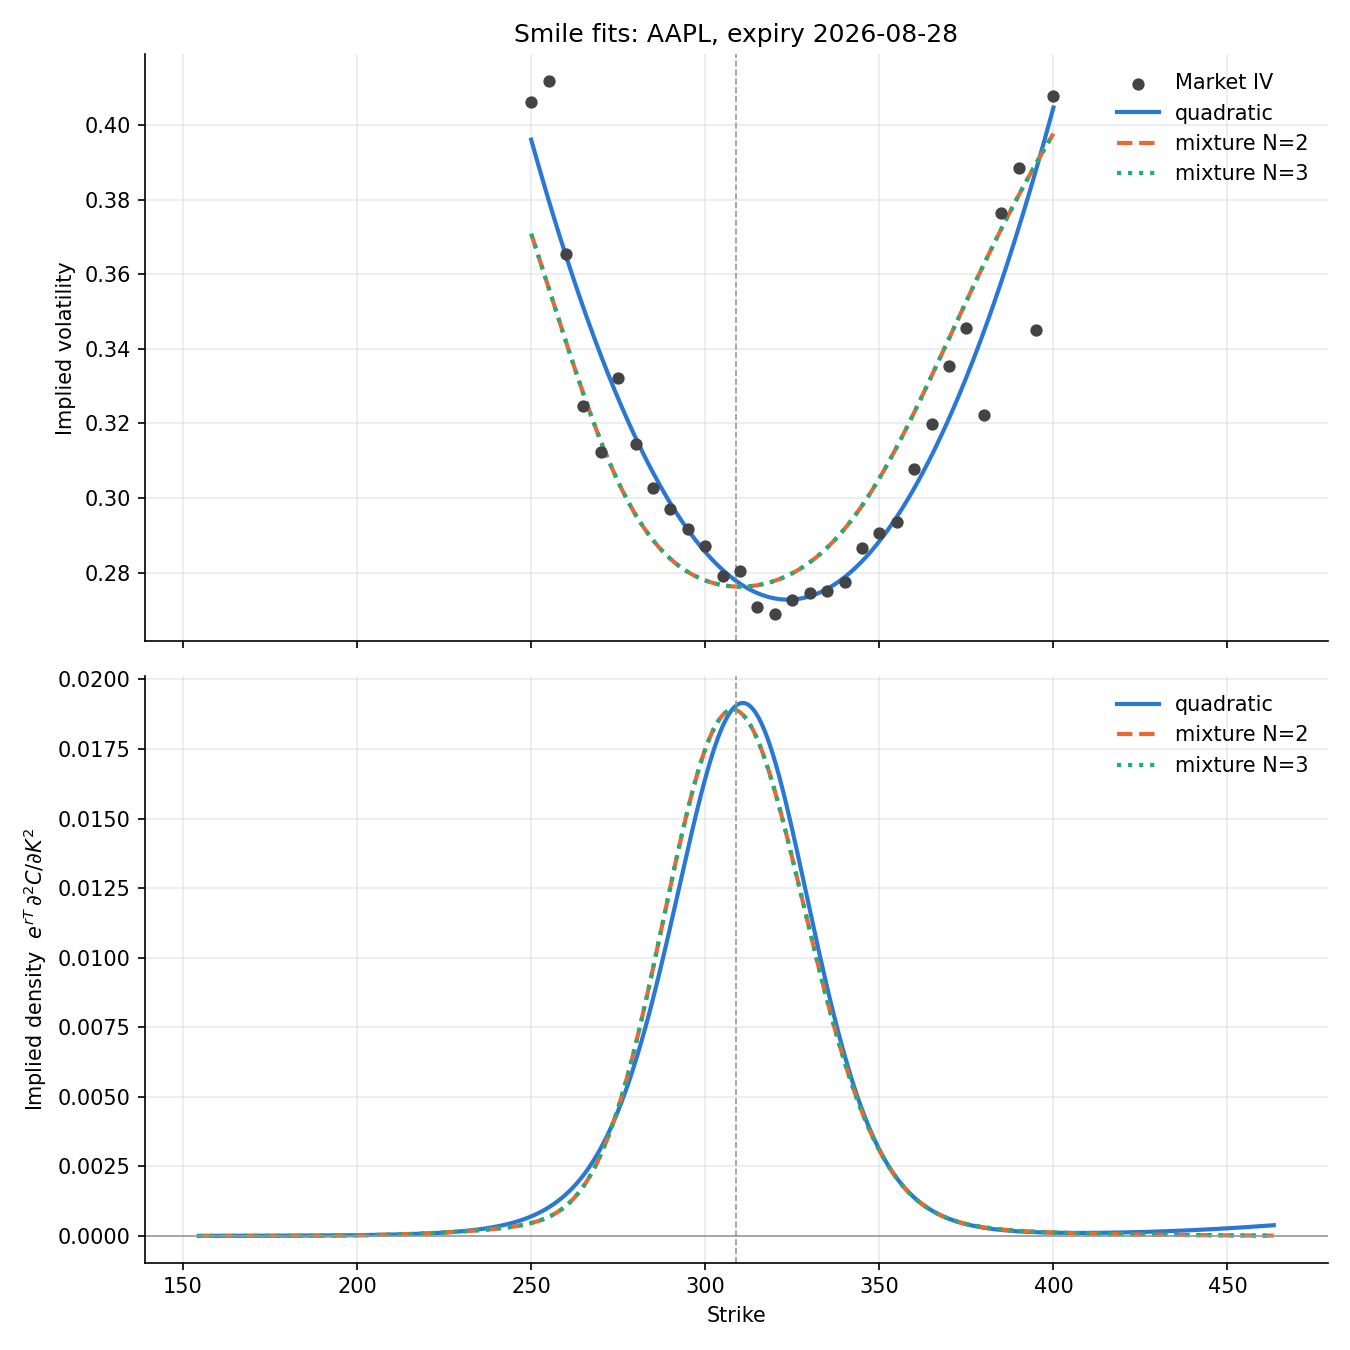
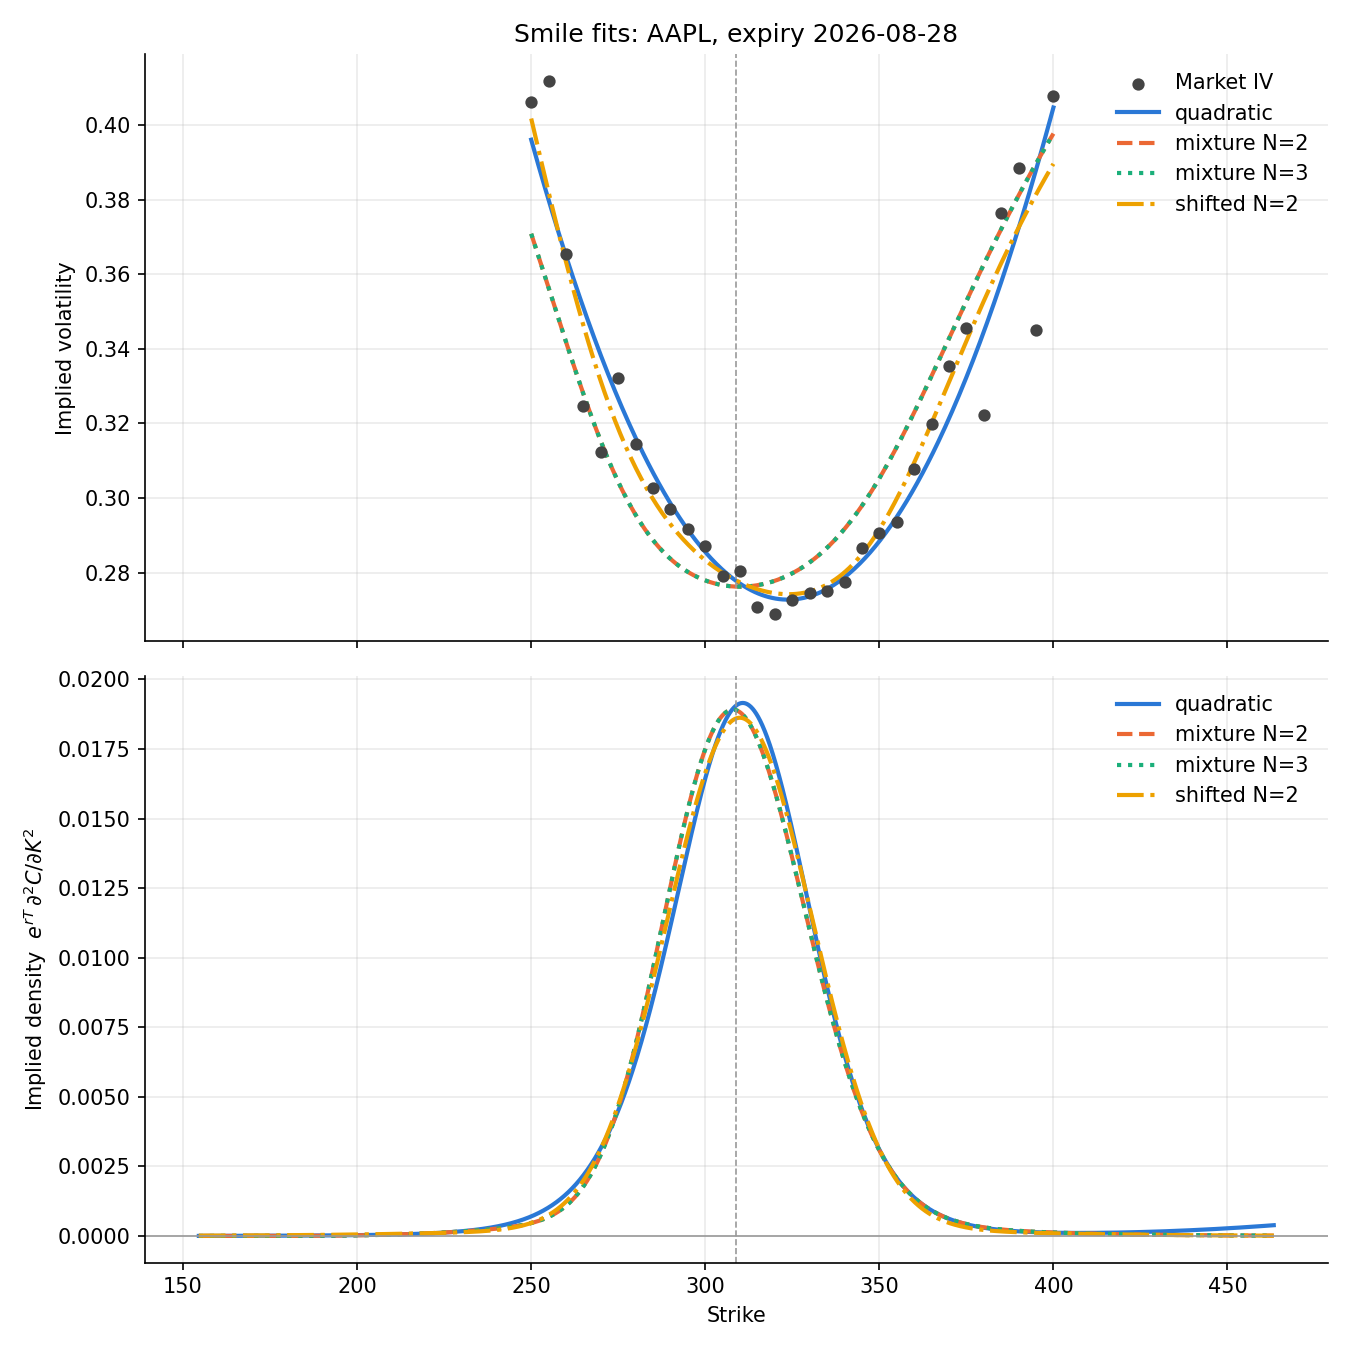
Add shifted lognormal mixture (Brigo-Mercurio) and fit shifted N=2
Fitted alpha is unbounded below on this data: RMSE keeps improving as
alpha -> -inf (normal-mixture limit), so the reported alpha is where the
optimiser stopped, not an interior optimum.

diff --git a/src/fit_mixture.py b/src/fit_mixture.py
@@ -1,7 +1,8 @@
 """Calibrate Brigo-Mercurio lognormal mixtures to the market smile and compare with the quadratic.
 
-Fits N=2 (lambda, sigma1, sigma2) and N=3 (5 free parameters) mixtures by least squares on
-implied vols, then checks every fitted smile for butterfly arbitrage via the Breeden-Litzenberger
+Fits N=2 (lambda, sigma1, sigma2), N=3 (5 free parameters) and shifted N=2 (alpha too, 4 free
+parameters) mixtures by least squares on implied vols, compares them with the bid-ask IV band,
+then checks every fitted smile for butterfly and call-spread arbitrage via the Breeden-Litzenberger
 density exp(rT) * d2C/dK2 on a fine strike grid.
 """
 from datetime import datetime
@@ -10,9 +11,10 @@ import matplotlib.pyplot as plt
 import numpy as np
 import pandas as pd
 from scipy.optimize import least_squares
+from scipy.stats import norm
 
 from implied_vol import bs_call_price, implied_vol_newton
-from lognormal_mixture import mixture_call_price, mixture_density
+from lognormal_mixture import mixture_density, shifted_mixture_call_price
 
 # S, r and T exactly as src/smile_plot.py builds them (that script writes data/implied_vols.csv
 # and isn't importable without re-running it, so the constants are repeated here).
@@ -37,43 +39,58 @@ assert len(df) == 31 and np.allclose(df["spot"], S), "implied_vols.csv doesn't m
 print(f"S = {S!r}, r = {r}, T = {T!r} ({(expiry_date - VALUATION_DATE).days}/365), rows = {len(df)}")
 
 
-# --- parametrisations: unconstrained x -> (lambdas, sigmas) ---------------------------------
+# --- parametrisations: unconstrained x -> (alpha, lambdas, sigmas) ---------------------------
 
-def unpack(x, n):
-    # first n-1 entries are weight logits (last component's logit pinned at 0), rest log-sigmas.
-    # Clip logits so no weight underflows to exactly 0 (validation requires lambda > 0).
+# Shift bound: every strike used (down to the 0.5*S end of the arbitrage grid) must exceed
+# alpha*S*exp(rT), so alpha < 0.5*exp(-rT).
+ALPHA_MAX = 0.5 * np.exp(-r * T)
+
+
+def unpack(x, n, shifted):
+    # first n-1 entries are weight logits (last component's logit pinned at 0), then n log-sigmas,
+    # then (shifted only) y with alpha = ALPHA_MAX - exp(y). Clip logits so no weight underflows
+    # to exactly 0 (validation requires lambda > 0).
     logits = np.append(np.clip(x[: n - 1], -30, 30), 0.0)
     weights = np.exp(logits - logits.max())
     lambdas = weights / weights.sum()  # for n=2 this is the logistic of x[0]
-    sigmas = np.exp(x[n - 1 :])
-    return lambdas, sigmas
+    sigmas = np.exp(x[n - 1 : 2 * n - 1])
+    alpha = ALPHA_MAX - np.exp(x[2 * n - 1]) if shifted else 0.0
+    return alpha, lambdas, sigmas
 
 
-def mixture_ivs(K, lambdas, sigmas, guesses):
+def mixture_call(K, alpha, lambdas, sigmas):
+    # alpha = 0 is exactly the unshifted mixture (tested in test_lognormal_mixture.py)
+    return shifted_mixture_call_price(S, K, T, r, alpha, lambdas, sigmas)
+
+
+def mixture_ivs(K, alpha, lambdas, sigmas, guesses):
     return np.array([
-        implied_vol_newton(mixture_call_price(S, k, T, r, lambdas, sigmas), S, k, T, r, initial_guess=g)
+        implied_vol_newton(mixture_call(k, alpha, lambdas, sigmas), S, k, T, r, initial_guess=g)
         for k, g in zip(K, guesses)
     ])
 
 
-def residuals(x, n):
-    lambdas, sigmas = unpack(x, n)
-    res = mixture_ivs(strikes, lambdas, sigmas, market_ivs) - market_ivs
+def residuals(x, n, shifted):
+    alpha, lambdas, sigmas = unpack(x, n, shifted)
+    res = mixture_ivs(strikes, alpha, lambdas, sigmas, market_ivs) - market_ivs
     return np.where(np.isnan(res), NAN_PENALTY, res)
 
 
-def fit_mixture(n, rng):
+def fit_mixture(n, rng, shifted=False):
     fits = []
     for _ in range(N_STARTS):
         x0 = np.concatenate([rng.uniform(-3, 3, n - 1), np.log(rng.uniform(0.05, 1.0, n))])
-        fits.append(least_squares(residuals, x0, args=(n,), x_scale=1.0))
+        if shifted:
+            x0 = np.append(x0, np.log(ALPHA_MAX - rng.uniform(-0.5, 0.45)))
+        fits.append(least_squares(residuals, x0, args=(n, shifted), x_scale=1.0))
     best = min(fits, key=lambda f: f.cost)
     costs = np.array([f.cost for f in fits])
     n_at_best = np.sum(costs <= best.cost * (1 + 1e-6) + 1e-14)
-    print(f"N={n}: {N_STARTS} starts, {n_at_best} reached the best cost {best.cost:.6e}")
-    lambdas, sigmas = unpack(best.x, n)
+    label = f"shifted N={n}" if shifted else f"N={n}"
+    print(f"{label}: {N_STARTS} starts, {n_at_best} reached the best cost {best.cost:.6e}")
+    alpha, lambdas, sigmas = unpack(best.x, n, shifted)
     order = np.argsort(sigmas)
-    return lambdas[order], sigmas[order]
+    return alpha, lambdas[order], sigmas[order]
 
 
 rng = np.random.default_rng(0)
@@ -82,12 +99,15 @@ fits = {
     "quadratic": dict(n_params=3, iv=lambda K: np.polyval(quad_coeffs, K),
                       params=f"a={quad_coeffs[0]:.6e}, b={quad_coeffs[1]:.6e}, c={quad_coeffs[2]:.6f}"),
 }
-for n in (2, 3):
-    lambdas, sigmas = fit_mixture(n, rng)
-    fits[f"mixture N={n}"] = dict(
-        n_params=2 * n - 1, lambdas=lambdas, sigmas=sigmas,
-        iv=lambda K, l=lambdas, s=sigmas: mixture_ivs(np.atleast_1d(K), l, s, np.full(np.size(K), 0.3)),
-        params="lambdas=[" + ", ".join(f"{v:.6f}" for v in lambdas)
+for name, n, shifted in [("mixture N=2", 2, False), ("mixture N=3", 3, False),
+                         ("shifted N=2", 2, True)]:
+    alpha, lambdas, sigmas = fit_mixture(n, rng, shifted)
+    fits[name] = dict(
+        n_params=2 * n - 1 + shifted, alpha=alpha, lambdas=lambdas, sigmas=sigmas,
+        iv=lambda K, a=alpha, l=lambdas, s=sigmas: mixture_ivs(
+            np.atleast_1d(K), a, l, s, np.full(np.size(K), 0.3)),
+        params=(f"alpha={alpha:.6f}, " if shifted else "")
+               + "lambdas=[" + ", ".join(f"{v:.6f}" for v in lambdas)
                + "], sigmas=[" + ", ".join(f"{v:.6f}" for v in sigmas) + "]",
     )
 
@@ -136,7 +156,7 @@ for name, fit in fits.items():
             print(f"  {name}: fitted IV <= 0 for some strikes on the grid; BS price undefined there")
         calls = bs_call_price(S, grid, T, r, grid_ivs)
     else:
-        calls = mixture_call_price(S, grid, T, r, fit["lambdas"], fit["sigmas"])
+        calls = mixture_call(grid, fit["alpha"], fit["lambdas"], fit["sigmas"])
     density = np.exp(r * T) * (calls[2:] - 2 * calls[1:-1] + calls[:-2]) / dK**2
     fit["density"] = density
     mass = np.trapezoid(density, inner)
@@ -163,8 +183,18 @@ for name, fit in fits.items():
     else:
         print(f"  {'':<14} call price non-increasing in strike (implied CDF in [0, 1])")
     if name != "quadratic":
-        exact = mixture_density(S, inner, T, r, fit["lambdas"], fit["sigmas"])
+        # density of S_T = floor + X_T is the mixture density of X_T at K - floor
+        floor = fit["alpha"] * S * np.exp(r * T)
+        exact = mixture_density((1 - fit["alpha"]) * S, inner - floor, T, r, fit["lambdas"], fit["sigmas"])
         print(f"  {'':<14} (max |FD - analytic mixture density| = {np.max(np.abs(density - exact)):.2e})")
+        if floor < 0:
+            # negative shift: S_T < 0 exactly when X_T < -floor
+            x0 = (1 - fit["alpha"]) * S
+            p_negative = sum(
+                lam * norm.cdf((np.log(-floor / x0) - (r - 0.5 * sig**2) * T) / (sig * np.sqrt(T)))
+                for lam, sig in zip(fit["lambdas"], fit["sigmas"])
+            )
+            print(f"  {'':<14} negative shift: S_T >= {floor:.2f}, P(S_T < 0) = {p_negative:.3e}")
 
 # --- outputs --------------------------------------------------------------------------------
 
@@ -176,16 +206,19 @@ pd.DataFrame({
     "quadratic_iv": fits["quadratic"]["fitted_ivs"],
     "mixture2_iv": fits["mixture N=2"]["fitted_ivs"],
     "mixture3_iv": fits["mixture N=3"]["fitted_ivs"],
+    "shifted2_iv": fits["shifted N=2"]["fitted_ivs"],
     "quadratic_in_band": fits["quadratic"]["in_band"],
     "mixture2_in_band": fits["mixture N=2"]["in_band"],
     "mixture3_in_band": fits["mixture N=3"]["in_band"],
+    "shifted2_in_band": fits["shifted N=2"]["in_band"],
 }).to_csv("data/mixture_fit.csv", index=False)
 print("\nSaved data/mixture_fit.csv")
 
-STYLES = {  # categorical slots 1-3 of the reference palette, plus line style as secondary encoding
+STYLES = {  # categorical slots 1-4 of the reference palette, plus line style as secondary encoding
     "quadratic": dict(color="#2a78d6", linestyle="-"),
     "mixture N=2": dict(color="#eb6834", linestyle="--"),
     "mixture N=3": dict(color="#1baf7a", linestyle=":"),
+    "shifted N=2": dict(color="#eda100", linestyle="-."),
 }
 fig, (ax_iv, ax_q) = plt.subplots(2, 1, figsize=(9, 9), sharex=True)
 curve_K = np.linspace(strikes.min(), strikes.max(), 300)

diff --git a/tests/python/test_lognormal_mixture.py b/tests/python/test_lognormal_mixture.py
@@ -10,6 +10,8 @@ from lognormal_mixture import (
     mixture_call_price,
     mixture_density,
     mixture_put_price,
+    shifted_mixture_call_price,
+    shifted_mixture_put_price,
 )
 
 R = 0.05
@@ -158,3 +160,48 @@ def test_invalid_mixture_raises_value_error(fn, case):
     lambdas, sigmas = INVALID_MIXTURES[case]
     with pytest.raises(ValueError):
         fn(100.0, 100.0, 0.5, R, lambdas, sigmas)
+
+
+def test_zero_shift_reproduces_unshifted_mixture_exactly():
+    S = 100.0
+    mismatches = []
+    for (lambdas, sigmas), K, T in itertools.product(MIXTURES, STRIKES, EXPIRIES):
+        shifted = shifted_mixture_call_price(S, K, T, R, 0.0, lambdas, sigmas)
+        plain = mixture_call_price(S, K, T, R, lambdas, sigmas)
+        if shifted != plain:
+            mismatches.append((lambdas, sigmas, K, T, shifted, plain))
+    assert mismatches == [], "\n".join(
+        f"lambdas={l} sigmas={s} K={K} T={T}: shifted={a!r} unshifted={b!r}"
+        for l, s, K, T, a, b in mismatches
+    )
+
+
+def test_shifted_mixture_satisfies_no_arbitrage_bounds_and_put_call_parity():
+    # Non-negative shifts only: S_T >= alpha*S*exp(rT), so the asset stays non-negative and the
+    # put bound P <= K*exp(-rT) must hold. (A negative shift lets S_T go below zero.)
+    S = 100.0
+    strikes = range(40, 201, 5)  # all above alpha*S*exp(rT) <= 0.3*100*exp(0.1) = 33.2
+    violations = []
+    for (lambdas, sigmas), alpha, K, T in itertools.product(MIXTURES, [0.1, 0.3], strikes, EXPIRIES):
+        C = shifted_mixture_call_price(S, K, T, R, alpha, lambdas, sigmas)
+        P = shifted_mixture_put_price(S, K, T, R, alpha, lambdas, sigmas)
+        forward_intrinsic = S - K * np.exp(-R * T)
+        call_ok = max(forward_intrinsic, 0.0) - 1e-10 <= C <= S + 1e-10
+        put_ok = max(-forward_intrinsic, 0.0) - 1e-10 <= P <= K * np.exp(-R * T) + 1e-10
+        parity_err = (C - P) - forward_intrinsic
+        if not (call_ok and put_ok and abs(parity_err) <= 1e-10):
+            violations.append((lambdas, sigmas, alpha, K, T, C, P, parity_err))
+    assert violations == [], "\n".join(
+        f"lambdas={l} sigmas={s} alpha={a} K={K} T={T}: C={c:.12g} P={p:.12g} parity_err={e:.3g}"
+        for l, s, a, K, T, c, p, e in violations
+    )
+
+
+@pytest.mark.parametrize("fn", [shifted_mixture_call_price, shifted_mixture_put_price],
+                         ids=lambda f: f.__name__)
+def test_shifted_mixture_rejects_strike_at_or_below_shifted_floor(fn):
+    S, T, alpha = 100.0, 1.0, 0.3
+    floor = alpha * S * np.exp(R * T)
+    for K in [floor, floor - 1.0, np.array([50.0, floor - 1.0])]:
+        with pytest.raises(ValueError):
+            fn(S, K, T, R, alpha, [0.5, 0.5], [0.2, 0.3])

diff --git a/src/lognormal_mixture.py b/src/lognormal_mixture.py
@@ -6,6 +6,10 @@ Volatility Smiles", International Journal of Theoretical and Applied Finance 5(4
 The terminal density of S_T is a mixture of lognormal densities, each with the common drift r
 and its own volatility sigma_i, weighted by lambda_i > 0 with sum(lambda_i) = 1. European
 option prices are therefore the same convex combination of Black-Scholes prices.
+
+The shifted model (same paper) adds a deterministic shift: S_t = alpha * S_0 * exp(rt) + X_t, with
+X a lognormal mixture started at X_0 = (1 - alpha) * S_0. A call on S at strike K is a call on X
+at strike K - alpha * S_0 * exp(rT), which must be positive.
 """
 import numpy as np
 from scipy.stats import norm
@@ -60,3 +64,22 @@ def mixture_density(S, K, T, r, lambdas, sigmas):
         s = sigma * np.sqrt(T)
         density = density + lam * norm.pdf((np.log(K) - mu) / s) / (K * s)
     return density
+
+
+def _shift(S, K, T, r, alpha):
+    floor = alpha * S * np.exp(r * T)  # S_T never falls below this
+    if alpha >= 1:
+        raise ValueError(f"alpha must be below 1 so the shifted spot is positive, got {alpha}")
+    if np.any(np.asarray(K) <= floor):
+        raise ValueError(f"every strike must exceed alpha*S*exp(rT) = {floor!r}")
+    return S - alpha * S, K - floor
+
+
+def shifted_mixture_call_price(S, K, T, r, alpha, lambdas, sigmas):
+    X0, K_shifted = _shift(S, K, T, r, alpha)
+    return mixture_call_price(X0, K_shifted, T, r, lambdas, sigmas)
+
+
+def shifted_mixture_put_price(S, K, T, r, alpha, lambdas, sigmas):
+    X0, K_shifted = _shift(S, K, T, r, alpha)
+    return mixture_put_price(X0, K_shifted, T, r, lambdas, sigmas)
